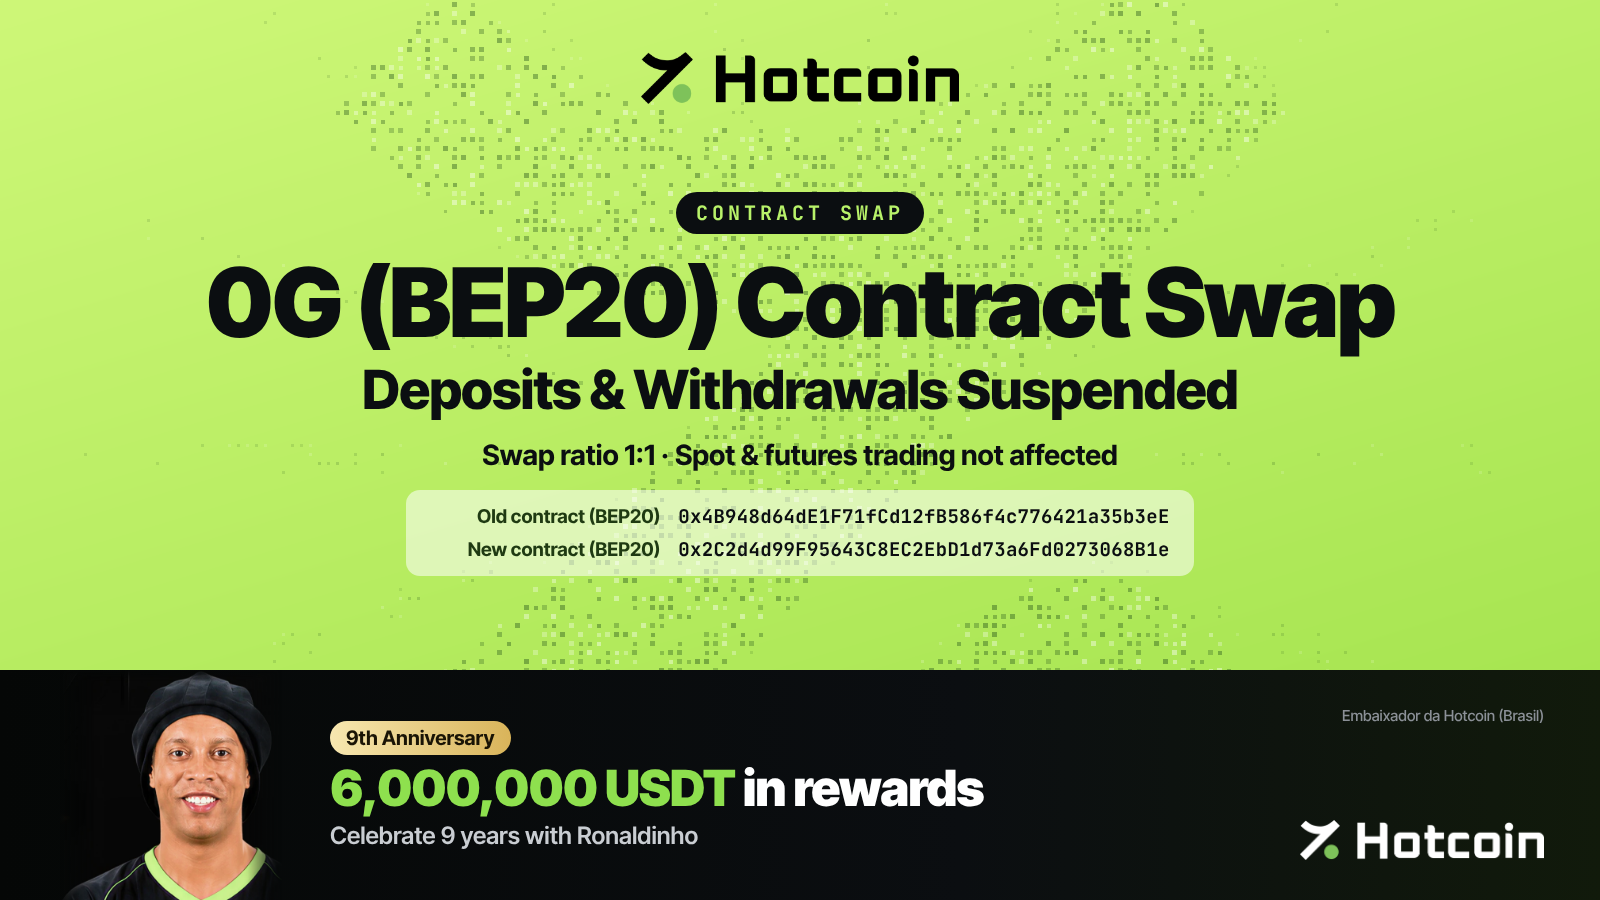
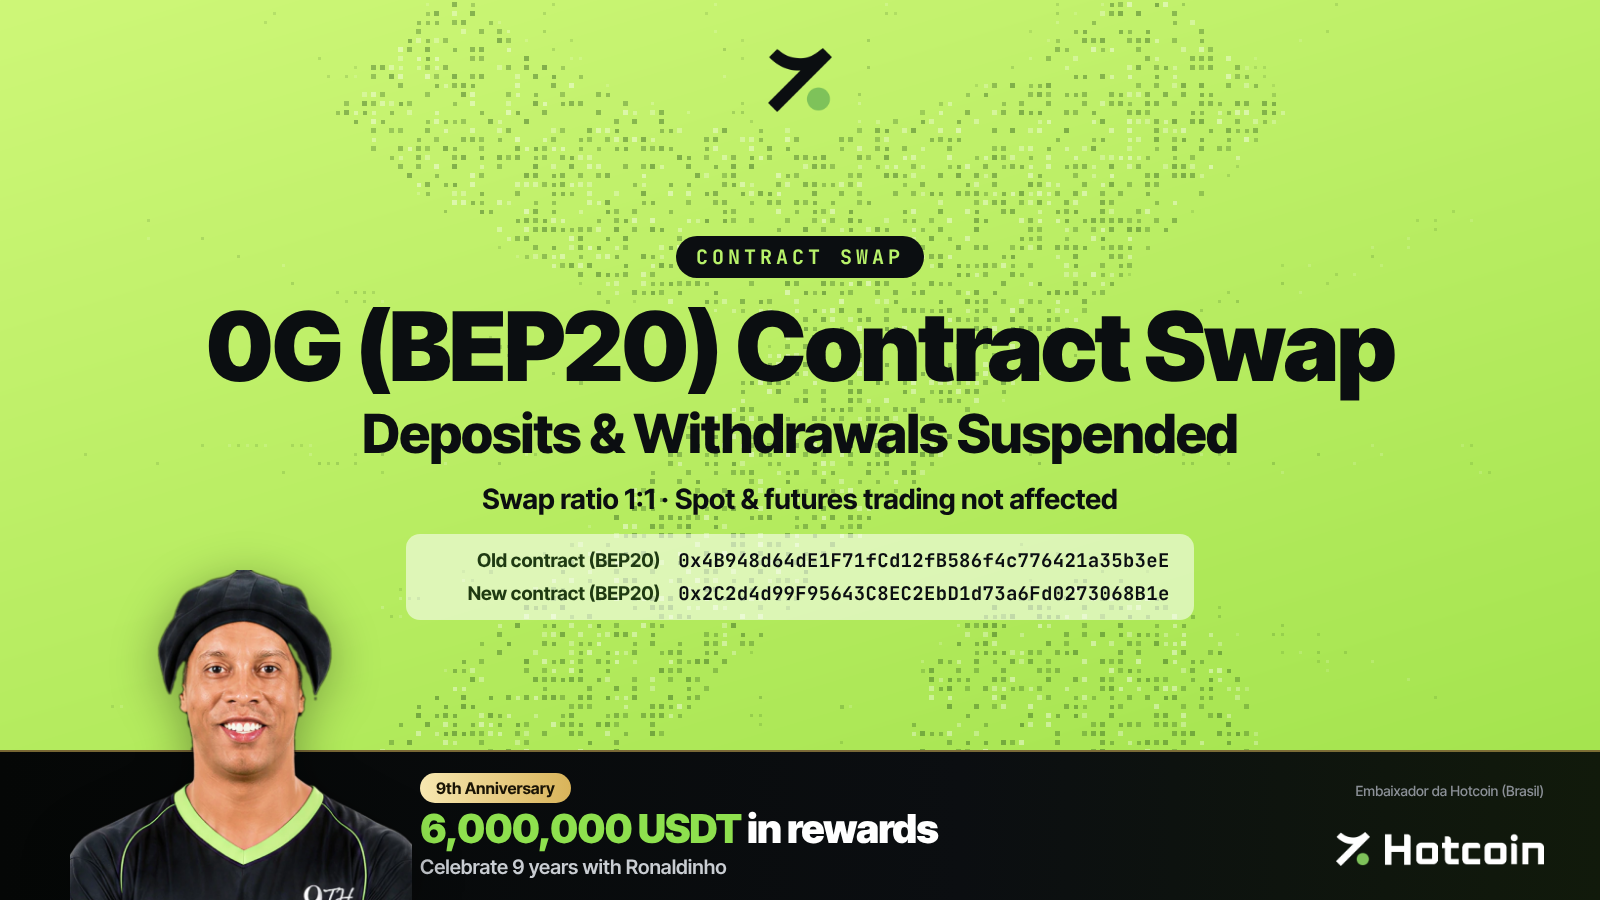
Announcement template: symbol-only header, thin footer with Ronaldinho cutout above the band
Claude-Session: https://claude.ai/code/session_013FLHmBnkkuvxSqLZ9CYW6u

diff --git a/social/announcements/README.md b/social/announcements/README.md
@@ -7,5 +7,5 @@ Render both images (plain and with the 9th-anniversary Ronaldinho footer):
     PW_PATH=$(npm root -g)/playwright node social/announcements/template/ann.mjs $PWD/social/announcements/<folder> <scratch-dir>
 
 Reusable assets in `template/`: `bg-lime-1600x900.png` (halftone background, rebuild with `make_bg.py`),
-`ronaldinho-footer.png` (soft-edged crop from the official 9th-anniversary creative), `symbol-black.png`.
+`ronaldinho-cutout.png` (cutout from the official 9th-anniversary creative, head rises above the footer band), `symbol-black.png`.
 Always copy contract addresses from the source announcement and check them character by character.
